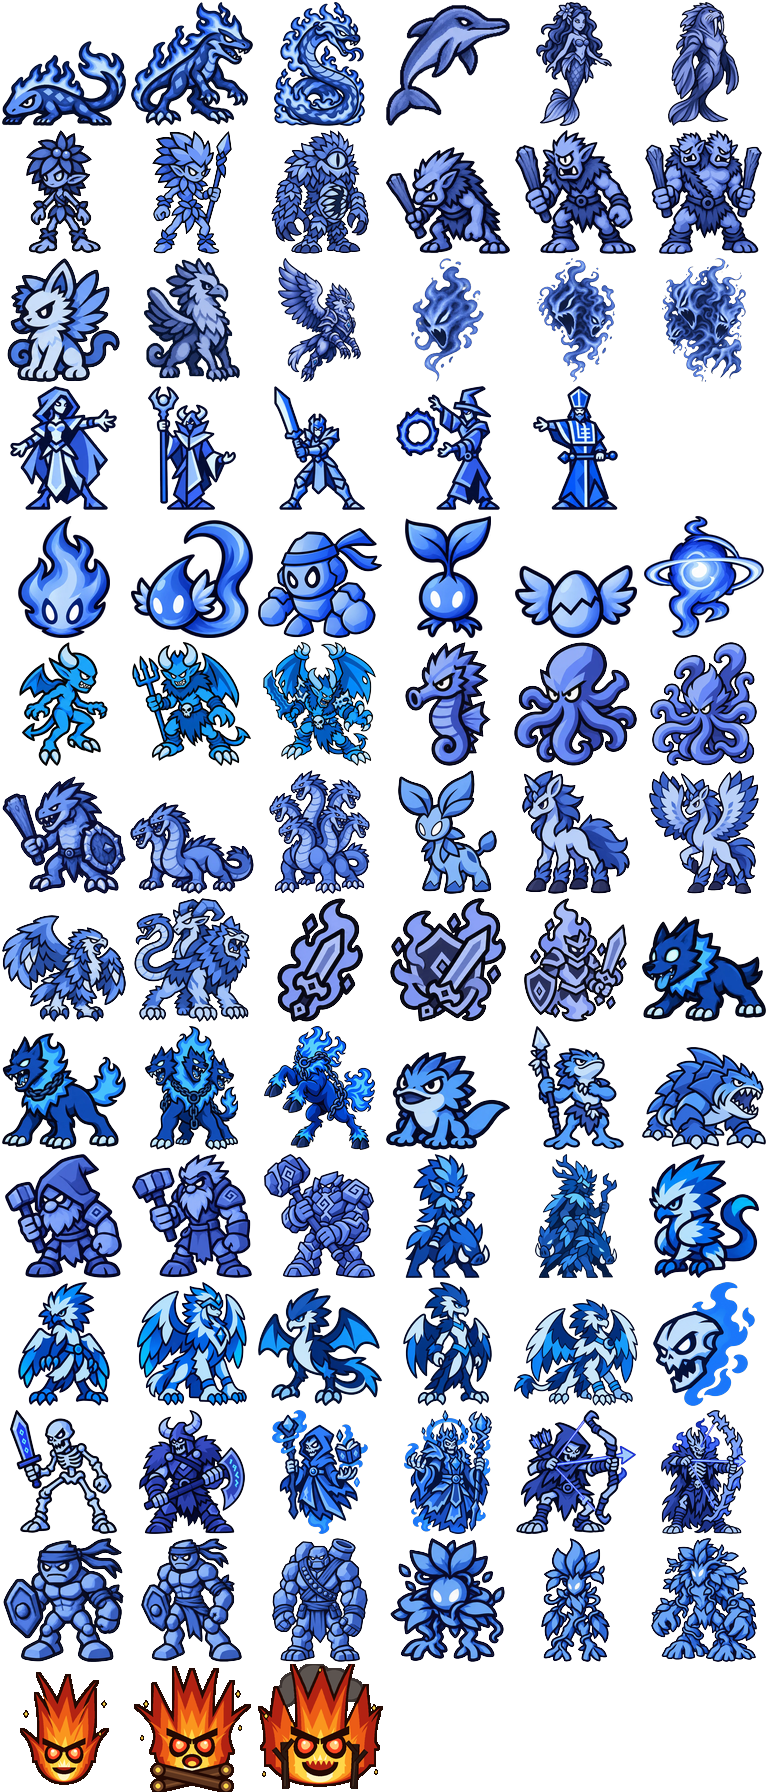
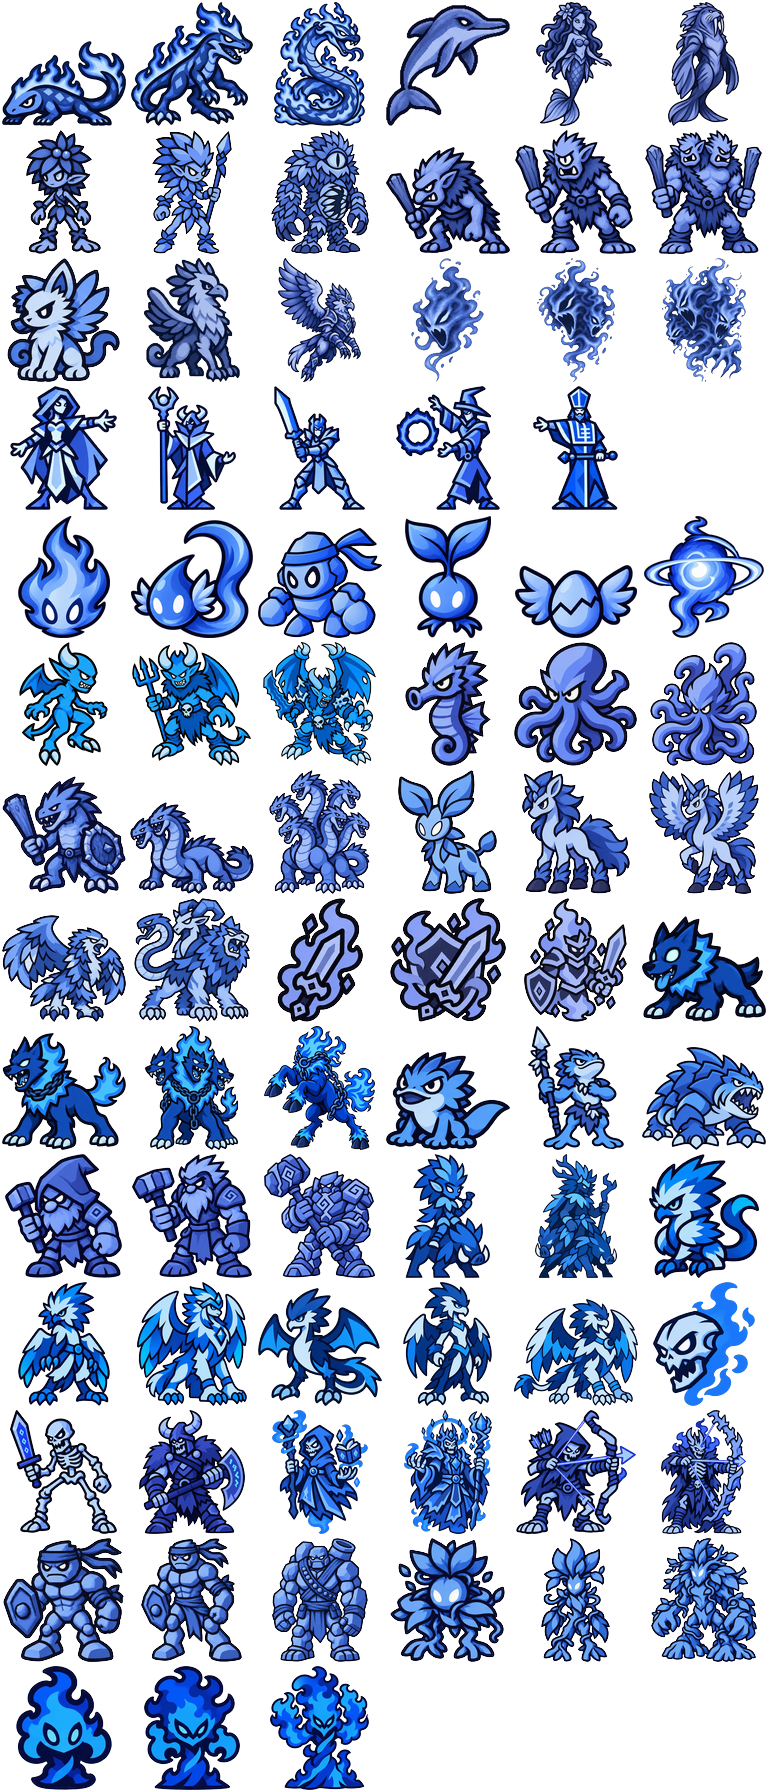
Vale único nas Fases 1 e 2, chamas com a arte nova e 4º ramo da Brasa; versão 1.87
- Fases 1 e 2 no mesmo vale (desenho do jogador, com mais floresta e uma 4ª vila), em qualquer tela;
  no celular em pé o vale abre no zoom de base e dá para arrastar
- A Fase 2 herda cada vila como a Fase 1 deixou; estrelas da Fase 1: cada vila perdida custa uma
- Labareda, Fogaréu e Queimada com a arte nova (miniatura e versão colorida de batalha)
- Brasa ganha o ramo raro Labareda (3+ turnos em floresta); os focos da Fase 2 viram espécies próprias, mais fracas

Changed region(s): [[0.1875, 0.9062, 0.5, 1.0], [0.0, 0.9062, 0.1562, 1.0]]

diff --git a/index.html b/index.html
@@ -802,7 +802,7 @@ html:not(.paisagem) #rodape .alaD{grid-area:1/3;justify-content:flex-start}
       <p><b>Evoluir na criação:</b> quando sua reserva chega a 200 MP, o menu do mestre ganha <b>Evoluir</b>. Escolha uma criatura inicial e o jogo oferece duas formas de estágio 1, conforme o que seu exército mais viveu na partida (horário dos ataques, dano feito e sofrido, terrenos, turnos parados ou correndo, feridos, abates). A escolhida custa 200 MP e fica fixa: daí em diante, invocar aquela criatura já traz a forma evoluída, pelo custo dela.</p>
       <p>Criaturas ganham XP lutando e evoluem: nascem no estágio 0 (baratas e frágeis, evoluem com pouca XP) e passam pelos estágios 1, 2 e 3. A XP que passar da meta segue para o estágio seguinte, até metade da nova meta. Algumas linhas se dividem em ramos, conforme o que a criatura viveu no estágio (a ficha mostra a tendência; em empate, é sorteio):</p>
       <ul>
-        <li><b>Brasa:</b> evolui no Dia → Salamandra; à Noite → Diabrete; na Manhã ou no Entardecer → Filhote Infernal.</li>
+        <li><b>Brasa:</b> terminou 3 ou mais turnos em floresta → Labareda (ramo raro). Senão, evolui no Dia → Salamandra; à Noite → Diabrete; na Manhã ou no Entardecer → Filhote Infernal.</li>
         <li><b>Cão Infernal</b> (estágio 2 do Filhote Infernal): turno em que ataca sem sair do lugar (ou andando só 1 casa) conta para o Cerberus; turno em que galopa 3 ou mais casas conta para a Mula sem Cabeça.</li>
         <li><b>Girino:</b> terminou 3 ou mais turnos em terra firme (fora de construções), e mais em terra do que na água → Sapinho; senão, evolui com mais da metade da vida → Boto Rosa, ferido (metade ou menos) → Cavalo Marinho.</li>
         <li><b>Argila:</b> turno parada (sem andar) vale 1 ponto e turno em pedreira ou montanha vale 3: com 4 pontos ou mais → Gnomo. Terminou 2 ou mais turnos à beira d'água (ao lado de rio, mar ou pântano) → Barruco; se valer os dois, vence o que passou mais da meta. Senão, apanhou mais do que bateu no estágio → Troll; bateu mais do que apanhou → Homem Lagarto.</li>
@@ -983,7 +983,7 @@ const zMaxToque=()=>TELA_LIVRE()?zBase()*2:ZOOM_MAX_TOQUE;
 // inicial e as casas de invocação ficam fáceis de tocar; para ver mais do mapa, é só afastar com a pinça.
 const zInicio=()=>Math.min(zBase()*2,Math.max(zBase(),58*TW/(W*LARG_CSS)));
 // celular em pé, partida nova: abre no zoom máximo, com o mestre bem à vista
-function zoomInicio(novo){if(!TELA_LIVRE())return;CAM.z=CAM.zAlvo=CAM.zPref=novo&&RETRATO()?zMaxToque():zInicio();mostraZoom();}
+function zoomInicio(novo){if(!TELA_LIVRE())return;CAM.z=CAM.zAlvo=CAM.zPref=novo&&RETRATO()&&!(J&&J.f1)?zMaxToque():zInicio();mostraZoom();} // Fases 1 e 2: o vale é deitado; no celular em pé, o zoom de base já mostra a altura toda
 function mostraZoom(){document.getElementById('zoomN').textContent=Math.round(CAM.zPref/zBase()*100)+'%';}
 // Mede o espaço do mapa e acerta a tela (TW×TH) e o canvas. Também liga/desliga o modo "retrato" (celular em pé),
 // em que o mapa preenche a área que sobra da tela em vez de ter proporção fixa. Chamado ao iniciar e a cada mudança de tamanho.
@@ -1320,11 +1320,16 @@ const ESP={
   campones:{nome:'Camponês',cat:'terPeq',el:'humano',hp:10,atk:3,def:0,mov:0,alc:1,forma:'coroa',tier:0},
   filhoteInf:{nome:'Filhote Infernal',cat:'terFogo',el:'fogo',hp:26,atk:12,def:0,mov:6,alc:1,custo:40,xp:45,evo:'caoInfernal',forma:'chama',tier:1},
   caoInfernal:{nome:'Cão Infernal',cat:'terFogo',el:'fogo',hp:44,atk:19,def:2,mov:6,alc:1,xp:90,evo:'cerberus',forma:'chama',tier:2},
-  // linha do fogo que se alastra (Fase 2): Labareda → Fogaréu → Queimada. Na mata em chamas são os focos de incêndio;
-  // Fogo não apaga fogo (o atacante de Fogo só as alimenta) e a Água causa o dobro de dano nelas.
-  labareda:{nome:'Labareda',cat:'terFogo',el:'fogo',hp:16,atk:7,def:0,mov:4,alc:1,custo:40,xp:30,evo:'fogareu',forma:'chama',tier:1},
-  fogareu:{nome:'Fogaréu',cat:'terFogo',el:'fogo',hp:30,atk:12,def:2,mov:4,alc:1,xp:60,evo:'queimada',forma:'chama',tier:2},
-  queimada:{nome:'Queimada',cat:'terFogo',el:'fogo',hp:50,atk:18,def:4,mov:4,alc:1,forma:'chama',tier:3},
+  // quarto ramo da Brasa (raro): a chama que se alastra pela mata. Labareda → Fogaréu → Queimada, um pouco acima
+  // dos outros ramos do Fogo no mesmo estágio (ramo raro). Nasce da Brasa que passou 3 ou mais turnos em floresta.
+  labareda:{nome:'Labareda',cat:'terFogo',el:'fogo',hp:28,atk:13,def:1,mov:5,alc:1,custo:40,xp:45,evo:'fogareu',forma:'chama',tier:1},
+  fogareu:{nome:'Fogaréu',cat:'terFogo',el:'fogo',hp:47,atk:19,def:3,mov:5,alc:1,xp:90,evo:'queimada',forma:'chama',tier:2},
+  queimada:{nome:'Queimada',cat:'terFogo',el:'fogo',hp:72,atk:26,def:5,mov:5,alc:1,forma:'chama',tier:3},
+  // os focos do incêndio da Fase 2: a mesma arte e o mesmo nome, mas mais fracos (são muitos ao mesmo tempo) e
+  // presos no lugar. Fogo não apaga fogo (o atacante de Fogo só os alimenta) e a Água causa o dobro de dano neles.
+  focoLabareda:{nome:'Labareda',arte:'labareda',cat:'terFogo',el:'fogo',hp:16,atk:7,def:0,mov:4,alc:1,custo:40,xp:30,evo:'focoFogareu',forma:'chama',tier:1},
+  focoFogareu:{nome:'Fogaréu',arte:'fogareu',cat:'terFogo',el:'fogo',hp:30,atk:12,def:2,mov:4,alc:1,xp:60,evo:'focoQueimada',forma:'chama',tier:2},
+  focoQueimada:{nome:'Queimada',arte:'queimada',cat:'terFogo',el:'fogo',hp:50,atk:18,def:4,mov:4,alc:1,forma:'chama',tier:3},
   cerberus:{nome:'Cerberus',cat:'terFogo',el:'fogo',hp:74,atk:24,def:6,mov:5,alc:1,forma:'chama',tier:3},
   // terceiro ramo da Água: os anfíbios que trocaram o rio pela terra. É o ramo mais raro da Água, então é um pouco mais forte
   sapinho:{nome:'Sapinho',cat:'anfibio',el:'agua',hp:28,atk:9,def:1,mov:5,alc:1,custo:50,xp:45,evo:'bullywug',forma:'gota',tier:1},
@@ -1374,8 +1379,9 @@ function spr(esp){return (ESP[esp]&&ESP[esp].arte)||esp;}
 // Quem tiver mais pontos vence; empate (inclusive 0 a 0) é sorteado.
 const RAMOS={
   // pela hora da evolução: o ciclo tem 2 turnos de Dia, 2 de Noite e 2 de crepúsculo (Manhã + Entardecer), ⅓ para cada
-  brasa:{para:['faisca','diabrete','filhoteInf'],dica:'Evoluir no Dia → Salamandra; à Noite → Diabrete; na Manhã ou no Entardecer → Filhote Infernal.',
-    pontos:u=>{const f=faseAtual().nome;return f==='Dia'?[1,0,0]:f==='Noite'?[0,1,0]:[0,0,1];}},
+  // ramo raro: a Brasa que passou 3 ou mais turnos em floresta vira Labareda (vale mais que o horário)
+  brasa:{para:['faisca','diabrete','filhoteInf','labareda'],dica:'Terminou 3 ou mais turnos em floresta → Labareda. Senão: evoluir no Dia → Salamandra; à Noite → Diabrete; na Manhã ou no Entardecer → Filhote Infernal.',
+    pontos:u=>{if(turnosEm(u,'flor')>=3)return [0,0,0,1];const f=faseAtual().nome;return f==='Dia'?[1,0,0,0]:f==='Noite'?[0,1,0,0]:[0,0,1,0];}},
   // o guardião não sai do posto, a mula dispara: cada turno conta para um lado só
   caoInfernal:{para:['cerberus','mulaSemCabeca'],dica:'Turno em que ataca sem sair do lugar (ou andando só 1 casa) conta para o Cerberus; turno em que galopa 3 ou mais casas conta para a Mula sem Cabeça.',
     pontos:u=>[hist(u).firme||0,hist(u).galope||0]},
@@ -1477,7 +1483,7 @@ function anotaJogo(u){
 }
 // pontos de cada ramo pelo histórico da partida, na ordem de RAMOS[base].para: [pontos, motivo]
 const EVO_HJ={
-  brasa:h=>[[h.atkDia,`${h.atkDia} ataques de Dia`],[h.atkNoite,`${h.atkNoite} ataques à Noite`],[h.atkCresp,`${h.atkCresp} ataques na Manhã e no Entardecer`]],
+  brasa:h=>[[h.atkDia,`${h.atkDia} ataques de Dia`],[h.atkNoite,`${h.atkNoite} ataques à Noite`],[h.atkCresp,`${h.atkCresp} ataques na Manhã e no Entardecer`],[hjTer(h,'flor'),`${hjTer(h,'flor')} turnos em floresta`]],
   girino:h=>{const tot=Object.values(h.ter).reduce((a,b)=>a+b,0),terra=tot-hjTer(h,'rio','mar','pant','cast','fort','torre');
     return [[h.saudavel*.4,`${h.saudavel} turnos terminados com mais da metade da vida`],[h.ferido,`${h.ferido} turnos terminados feridos`],[terra*.3,`${terra} turnos em terra firme`]];},
   argila:h=>{const mina=hjTer(h,'pedr','mont');
@@ -1868,7 +1874,7 @@ function novoJogo(op=prefs(),semIntro=false){ // semIntro: a partida de fundo, a
   const f1=!!op.f1; // Fase 1 (introdução): mapa fixo, sem mestre rival, contra o Bando Infernal
   const fase=f1?op.fase||1:0; // as fases da campanha usam a mesma estrutura (J.f1); a 2 é a Mata em Chamas
   const np=f1?2:MODOS[op.modo]||2;
-  const mF1=f1?(fase===2?MAPAS_F2:MAPAS_F1)[RETRATO()?'empe':'deitado']:null; // celular em pé: corredor em pé; senão, deitado
+  const mF1=f1?MAPAS_F1.deitado:null; // um só vale para as Fases 1 e 2, em qualquer tela (no celular em pé, arrasta e amplia)
   defineLinhas(f1?mF1.linhas.length:np>2?17:13);
   const m=f1?(fase===2?mapaF2(mF1):mapaF1(mF1)):gerarMapa(seed,np,op.cristal!==false); // modo único: todo mapa tem a Torre do Cristal (false só para testes)
   // os rivais recebem mestres diferentes do seu e entre si, sorteados
@@ -2322,7 +2328,7 @@ function fundoMenu(cena='inicio'){
 }
 // cada cena tem seu ponto de interesse (torre, pavilhão, monólito): é ele que fica à vista quando a tela corta os lados
 const poeArte=(el,cena)=>{try{el.style.setProperty('--fundoMenu',`url(${fundoMenu(cena)})`);el.style.setProperty('--fundoX',{inicio:'50%',batalha:'46%',carregar:'30%'}[cena]);el.dataset.cena=cena;el.classList.add('arte');}catch(e){}};
-const VERSAO='1.86'; // aumentar 0.01 a cada atualização publicada
+const VERSAO='1.87'; // aumentar 0.01 a cada atualização publicada
 // tela inicial: menu principal com três botões (Jogar, Preparar Batalha, Carregar jogo)
 // inicio = aberta ao abrir o jogo (ou no fim da partida): sem "Voltar ao jogo"
 function abreConfig(inicio=false){
@@ -2359,7 +2365,7 @@ function jogarFaseFinal(){fecharSaves();novoJogo({...prefs(),modo:'1x1',campanha
 // Vitória: derrubar o Bando. Derrota: o mestre cair ou todas as vilas serem destruídas. Cada vila salva vale uma estrela.
 // Só Fogo e Água para invocar; sem magia, Força, Evoluir, cristal nem cabo de guerra; a fase não é salva.
 const F1_CHAVE='senhoresDoVeu.fase1';
-const F1_MOV={filhoteInf:3,caoInfernal:4,labareda:0,fogareu:0,queimada:0}; // as chamas da Fase 2 não andam: elas se alastram // o Bando anda devagar, para dar tempo de reagir
+const F1_MOV={filhoteInf:3,caoInfernal:4,focoLabareda:0,focoFogareu:0,focoQueimada:0}; // as chamas da Fase 2 não andam: elas se alastram // o Bando anda devagar, para dar tempo de reagir
 const F1_CAMP=3,F1_XP=15; // camponeses por vila; XP por camponês (3 camponeses = a meta do Filhote)
 const ehF1=()=>!!(J&&J.f1);
 const selvagem=l=>!!(J&&J.f1)&&l===1;
@@ -2371,36 +2377,20 @@ function fase1Info(){try{return JSON.parse(localStorage.getItem(F1_CHAVE))||{};}
 const estrelasTxt=n=>'★'.repeat(n||0)+'☆'.repeat(Math.max(0,3-(n||0)));
 // . planície  f floresta  m montanha  p pedreira  r rio  C castelo (as fortalezas vêm em volta)  T torre  a/b Filhotes
 // V vila (vale estrela)  v vila da entrada: o Bando chega antes de qualquer ajuda, então ela não conta estrela
-// corredor sinuoso fechado por montanhas (na Fase 1 ninguém atravessa montanha). Deitado no PC e no celular deitado
-// (os Filhotes entram pela direita); em pé no celular em pé (descem do topo). Os dois têm o mesmo ritmo.
+// corredor sinuoso fechado por montanhas (na Fase 1 ninguém atravessa montanha). O mesmo vale em qualquer tela
+// (no celular em pé ele aparece inteiro pequeno; o jogo abre ampliado e dá para arrastar). Os Filhotes entram pela direita.
 const MAPAS_F1={ // corredor em S, curto (~18 passos da entrada ao castelo) para os exércitos se encontrarem logo;
-  // bordas irregulares, pedreiras entre as montanhas, moitas de floresta e uma passagem estreita no mapa em pé
+  // bordas irregulares, pedreiras entre as montanhas e bastante floresta (para o incêndio da Fase 2). Desenho do jogador.
   deitado:{entra:'direita',linhas:[
-    'mmmmmmm.m........',
-    'mmpmp...V..f.v.a.',
-    'mmmp...T..ff...b.',
-    'mmmf.f..mm.mm..pm',
-    'mmmm...m..mm.mmmm',
-    'mmm..f.V....mmmmm',
-    'mmmmm.f...VT...mm',
-    'mmmm.ff.f....C.mp',
-    'mmmmmmmfmm..m..mm']},
-  empe:{entra:'cima',linhas:[
-    'mmmmmmmpmm.....mm',
-    'mmpmpmmppmma.bmmm',
-    'pmmmmmm.mmv....mm',
-    'mpmpm..........mp',
-    'mpmp...V........m',
-    'mmm.....mm..ppfmm',
-    'mp.m.T.mm.mppmmmp',
-    'mmm...m.fmmpmpmmp',
-    'mmff.V..f..mpmppm',
-    'mmmm....f..p.mmmm',
-    'mmpmmpp...V.fp.pm',
-    'mmmmmmpmm.T.f.pmp',
-    'mmmmmpmm.....fmmm',
-    'pmmppmm..C.fmmmmm',
-    'ppmmmmmmp..mppmmm']}};
+    'mmmmmmm.m..ff.f..',
+    'mmpmpf..V..f.v.a.',
+    'mmmpf..T.fff.f.b.',
+    'pmff.f.fmm.mmf.pm',
+    'pffVf..m.fmm.mmmm',
+    'mmff.f.V.ff.mmmmm',
+    'mmmmpff.f.VT.f.mm',
+    'pmmp.ff.f.ff.C.mp',
+    'ppmmmmmfmmf.m..mm']}};
 function mapaF1(M){
   const ter=new Array(COLS*ROWS).fill('plan'),dono=new Array(COLS*ROWS).fill(null),vilas={},filhotes=[];let f0=null;
   const T={'.':'plan',f:'flor',m:'mont',p:'pedr',r:'rio',T:'torre',V:'plan',v:'plan',a:'plan',b:'plan',C:'cast'};
@@ -2492,7 +2482,7 @@ async function chegadaF1(){
   const cima=J.f1.entra==='cima';
   const ponto=f=>{const [x,y]=centro(f.c,f.r);return [x-(cima?0:W*1.5),y+(cima?R*3:0)];}; // em pé: um pouco abaixo da borda
   const fora=f=>{const [x,y]=centro(f.c,f.r);return cima?{x0:x,y0:y-R*9}:{x0:x+R*9,y0:y};}; // entram de fora do mapa
-  const z=Math.min(zBase()*2.4,Math.max(CAM.zPref*1.5,zBase()*1.6));
+  const z=RETRATO()?zBase()*1.2:Math.min(zBase()*2.4,Math.max(CAM.zPref*1.5,zBase()*1.6)); // celular em pé: o vale deitado já aparece grande
   const mira=([x,y])=>{CAM.alvo={fixo:true,px:x,py:y};CAM.centrar=true;CAM.mao=false;};
   {const [mx,my]=ponto(fs[0]);CAM.z=CAM.zAlvo=z;CAM.enq=true;CAM.x=mx;CAM.y=my;limitaCam();mira([mx,my]);}
   for(const f of fs)f.anim={...fora(f),t0:performance.now(),dur:1e9}; // esperando fora do mapa
@@ -2657,46 +2647,23 @@ const F2_CHAVE='senhoresDoVeu.fase2';
 const F2_QUEIMA=3,F2_MAX_CHAMAS=10,F2_CAO_TURNO=2,F2_ALIMENTA_XP=8,F2_ALIMENTA_HP=3,F2_MATA_ESTRELA=0.6;
 const ehF2=()=>!!(J&&J.f1&&J.f1.n===2);
 function fase2Info(){try{return JSON.parse(localStorage.getItem(F2_CHAVE))||{};}catch(e){return {};}}
-// . planície  f floresta  F floresta já em chamas (foco)  m montanha  p pedreira  r rio  C castelo  T torre  V vila
-// c por onde o Cão Infernal entra. Castelo de um lado, rio cortando o vale (os Girinos nadam por ele), mata fechada.
-const MAPAS_F2={
-  deitado:{entra:'direita',linhas:[
-    'mmfffmmrffffmmffm',
-    'mffVff.r.fFfVff.m',
-    'mf..Tffrfffff.fFm',
-    'm.ff...rr.fff...m',
-    'mff..f..r..T.ff.c',
-    'm.f..ff.rff.ff.fm',
-    'm..C..f.rfFffVffm',
-    'mf...ff.r.fffffmm',
-    'mmffmmffrffmmffmm']},
-  empe:{entra:'cima',linhas:[
-    'mmmffmmm.c.ffmmmm',
-    'mmffFff..fffffmmm',
-    'mfffffV.fff.fffmm',
-    'mff..ff.rr.ff.ffm',
-    'm.ff...rr..fFff.m',
-    'mff.T..r.ffffV.fm',
-    'mfff..rr.ff..ff.m',
-    'm.ff..r..fF.fff.m',
-    'mff.Vfr.ffff.T.fm',
-    'mfff..r.ff...ff.m',
-    'm.ff.r..ff.ff.ffm',
-    'mff..r.ff..fff.mm',
-    'mmf.rr.C...ff.fmm',
-    'mmff.r.....fffmmm',
-    'mmmmmrmmffmmmmmmm']}};
+// A Fase 2 acontece no MESMO vale da Fase 1 (MAPAS_F1): o Cão entra por onde os Filhotes entraram, e as vilas
+// continuam como a Fase 1 as deixou (vila destruída fica em ruínas; cada uma com os camponeses que sobraram nela).
+// Aqui só ficam os focos iniciais do incêndio, em florestas do vale (coluna, linha).
+const F2_FOCOS={deitado:[[11,2],[5,3],[9,5]]};
+const oriF1=()=>'deitado'; // um só vale (antes havia uma versão em pé)
 function mapaF2(M){
-  const ter=new Array(COLS*ROWS).fill('plan'),dono=new Array(COLS*ROWS).fill(null),vilas={},focos=[];let f0=null,cao=null;
-  const T={'.':'plan',f:'flor',F:'flor',m:'mont',p:'pedr',r:'rio',T:'torre',V:'plan',c:'plan',C:'cast'};
-  M.linhas.forEach((lin,r)=>[...lin].forEach((ch,c)=>{const k=K(c,r);ter[k]=T[ch];
-    if(ch==='C')f0=[c,r];if(ch==='V')vilas[k]={n:F1_CAMP,max:F1_CAMP,estrela:true};if(ch==='F')focos.push([c,r]);if(ch==='c')cao=[c,r];}));
-  dono[K(...f0)]=0;for(const [a,b] of vizinhos(...f0)){ter[K(a,b)]='fort';dono[K(a,b)]=0;}
-  // camponeses: os que sobreviveram à Fase 1, repartidos entre as vilas (mais nas perto do castelo); ao menos 1 em cada
-  const ks=Object.keys(vilas).map(Number).sort((a,b)=>d6c(...DK(a),...f0)-d6c(...DK(b),...f0)||a-b);
-  const veio=campanhaInfo().f1Camp,tot=Math.max(ks.length,Math.min(ks.length*F1_CAMP,veio??ks.length*F1_CAMP));
-  ks.forEach((k,i)=>{vilas[k].n=Math.min(F1_CAMP,Math.floor(tot/ks.length)+(i<tot%ks.length?1:0));});
-  return {ter,dono,f0,f:[f0],tema:'Mata em Chamas',cristal:null,vilas,focos,cao,entra:M.entra,camponeses:tot};
+  const m=mapaF1(M),ori=oriF1(M),cp=campanhaInfo(),salvo=cp.f1Vilas&&cp.f1Vilas.ori===ori?cp.f1Vilas.n:null;
+  const ks=Object.keys(m.vilas).map(Number).sort((a,b)=>d6c(...DK(a),...m.f0)-d6c(...DK(b),...m.f0)||a-b);
+  if(salvo){for(const k of ks)m.vilas[k].n=Math.max(0,Math.min(F1_CAMP,salvo[k]??F1_CAMP));}
+  else{ // sem o resultado da Fase 1 nesta posição da tela: o total que sobrou, repartido (a vila da entrada ficou em ruínas)
+    const est=ks.filter(k=>m.vilas[k].estrela),veio=cp.f1Camp,tot=Math.max(est.length,Math.min(est.length*F1_CAMP,veio??est.length*F1_CAMP));
+    for(const k of ks)if(!m.vilas[k].estrela)m.vilas[k].n=0;
+    est.forEach((k,i)=>{m.vilas[k].n=Math.min(F1_CAMP,Math.floor(tot/est.length)+(i<tot%est.length?1:0));});
+  }
+  for(const k of ks)m.vilas[k].inicio=m.vilas[k].n; // as que começam de pé contam para a estrela das vilas
+  const focos=F2_FOCOS[ori].filter(([c,r])=>m.ter[K(c,r)]==='flor');
+  return {...m,tema:'Mata em Chamas',focos,cao:m.filhotes[0],camponeses:ks.reduce((s,k)=>s+m.vilas[k].n,0)};
 }
 function iniciaF2(m){
   J.f1={n:2,fila:['intro1'],vistos:{torre:true,torreMagica:true},rostos:{},entra:m.entra,entrada:[m.cao],caoPos:m.cao,castelo:m.f0,
@@ -2706,7 +2673,7 @@ function iniciaF2(m){
   for(const p of m.focos)criaChama(K(...p));
 }
 const chamaEm=k=>ehF2()&&J.un.some(x=>x.chama&&K(x.c,x.r)===k);
-function criaChama(k,esp='labareda'){
+function criaChama(k,esp='focoLabareda'){
   const [c,r]=DK(k),u=criaUnidade(esp,1,c,r);
   u.selvagem=true;u.chama=true;u.idade=0;u.movido=u.agiu=true;return u;
 }
@@ -2818,7 +2785,7 @@ async function turnoFogo(l){
   // 4. Labareda que queimou a floresta até o fim se apaga e deixa cinza (a floresta vira planície)
   for(const u of J.un.filter(x=>x.chama)){
     u.idade=(u.idade||0)+1;const k=K(u.c,u.r);
-    if(u.esp==='labareda'&&!J.vilas[k]&&u.idade>=F2_QUEIMA){
+    if(u.esp==='focoLabareda'&&!J.vilas[k]&&u.idade>=F2_QUEIMA){
       J.ter[k]='plan';J.f1.cinzas++;J.f1.cinzaK=k;apagaChama(u);
       const [x,y]=centro(...DK(k));fx.push({txt:'Cinzas',x,y:y-6,t0:performance.now(),cor:'#b8b0a8',dur:1400});
       log('A floresta queimou até o fim e virou cinza.');avisoF1('cinza');
@@ -2839,7 +2806,7 @@ async function espalhaFogo(){
     focos.push(g);}
   const cast=J.f1.castelo,novas=[];let total=chamas.length;
   for(const g of focos){
-    let n=1+g.filter(u=>u.esp==='fogareu').length+2*g.filter(u=>u.esp==='queimada').length;
+    let n=1+g.filter(u=>u.esp==='focoFogareu').length+2*g.filter(u=>u.esp==='focoQueimada').length;
     const cands=new Set();
     for(const u of g)for(const [c,r] of vizinhos(u.c,u.r)){const k=K(c,r);if(inflamavel(k)&&!unidadeEm(c,r))cands.add(k);}
     const ord=[...cands].sort((a,b)=>d6c(...DK(a),...cast)-d6c(...DK(b),...cast)||a-b);
@@ -2853,7 +2820,7 @@ async function espalhaFogo(){
 }
 // fim da Fase 2: estrelas (vencer, todas as vilas de pé, mata salva); vencer leva à fase final
 function mostraFimF2(v,motivo){
-  const vs=Object.values(J.vilas),salvas=vs.filter(x=>x.n>0).length,camp=vs.reduce((s,x)=>s+x.n,0);
+  const vs=Object.values(J.vilas).filter(x=>x.inicio>0),salvas=vs.filter(x=>x.n>0).length,camp=vs.reduce((s,x)=>s+x.n,0);
   const mata=J.ter.filter(t=>t==='flor').length,pct=J.f1.mata0?Math.round(100*mata/J.f1.mata0):100;
   const b=document.getElementById('fimBt'),b2=document.getElementById('fimBt2');
   document.getElementById('fimTxt').textContent=v===0?'Fase 2 concluída!':'Você perdeu';
@@ -2943,15 +2910,16 @@ function mostraFimFase(v,motivo){if(ehF2())mostraFimF2(v,motivo);else mostraFimF
 // fim da Fase 1: estrelas pelas vilas salvas; vencer leva à Fase 2
 function mostraFimF1(v,motivo){
   const vs=Object.values(J.vilas).filter(x=>x.estrela!==false),salvas=vs.filter(x=>x.n>0).length,camp=vs.reduce((s,x)=>s+x.n,0),tot=vs.reduce((s,x)=>s+x.max,0); // a vila da entrada não conta
+  const est=Math.max(0,3-(vs.length-salvas)); // 3 estrelas com todas as vilas salvas; cada vila perdida custa uma
   const b=document.getElementById('fimBt'),b2=document.getElementById('fimBt2');
   document.getElementById('fimTxt').textContent=v===0?'Fase 1 concluída!':'Você perdeu';
   b2.style.display='';
   if(v===0){
     const info=fase1Info();
-    try{localStorage.setItem(F1_CHAVE,JSON.stringify({venceu:true,estrelas:Math.max(info.estrelas||0,salvas)}));}catch(e){}
-    salvaCampanha({camponeses:camp,f1Camp:camp,fase:1}); // os sobreviventes seguem para a próxima fase (vale o resultado da última vitória)
+    try{localStorage.setItem(F1_CHAVE,JSON.stringify({venceu:true,estrelas:Math.max(info.estrelas||0,est)}));}catch(e){}
+    salvaCampanha({camponeses:camp,f1Camp:camp,fase:1,f1Vilas:{ori:J.f1.entra==='cima'?'empe':'deitado',n:Object.fromEntries(Object.entries(J.vilas).map(([k,x])=>[k,x.n]))}}); // os sobreviventes seguem para a próxima fase (vale o resultado da última vitória)
     document.getElementById('fimSub').textContent=`O Bando Infernal caiu no turno ${J.turno}.`;
-    document.getElementById('fimPorque').innerHTML=`<div class="estrelasF1">${[0,1,2].map(i=>`<span class="${i<salvas?'on':''}">★</span>`).join('')}</div>
+    document.getElementById('fimPorque').innerHTML=`<div class="estrelasF1">${[0,1,2].map(i=>`<span class="${i<est?'on':''}">★</span>`).join('')}</div>
       <p class="porque" style="text-align:center">${salvas} de ${vs.length} vilas salvas · ${camp} de ${tot} camponeses vivos</p>`;
     b.textContent='Continuar';b.onclick=()=>jogarFase2();
     b2.textContent='Tentar novamente';b2.onclick=()=>jogarFase1();
@@ -5809,9 +5777,9 @@ const ORDEM_SPR=['faisca','brasador','pirolorde','gotim','corrente','abissal','b
   'harpiaSol','esfingeSol','cocatrizLua','harpiaLua','esfingeLua','caveira', // 11ª linha: as linhagens Solar e Lunar do Ar e a Caveira
   'esqGuerreiro','draugr','esqMago','lich','esqArqueiro','flecheiro', // 12ª linha: os esqueletos da Essência
   'barruco','terracoto','golemArgila','mandrago','sentinela','trent', // 13ª linha: o barro da Argila e as raízes da Semente
-  'labareda','fogareu','queimada']; // 14ª linha: o fogo que se alastra (Fase 2)
+  'labareda','fogareu','queimada']; // 14ª linha: o fogo que se alastra (4º ramo da Brasa; também os focos da Fase 2)
 const ATL_LIN=14;
-const ATLAS=/*ATLAS*/"img/atlas.png?v=2a792fc8"/*FIM_ATLAS*/;
+const ATLAS=/*ATLAS*/"img/atlas.png?v=1cfcdeb6"/*FIM_ATLAS*/;
 const CEL=128;
 // estágio de evolução tem que ser legível só pelo tamanho: 0 mínimo, 1º pequeno, 2º médio, 3º grande (passa da borda do hexágono)
 const TAM_SPR=[21,28,40,56];
@@ -5969,7 +5937,7 @@ atlasCorImg.onload=()=>{
   FILA_ATLAS.push(()=>{atlasCor=contornar(atlasCorImg,4,'#07080c');if(J)atualiza();});
   if(FILA_ATLAS.length===1)rodaFilaAtlas();
 };
-atlasCorImg.src=/*ATLAS_COR*/"img/atlas-cor.png?v=e7cc4b6a";
+atlasCorImg.src=/*ATLAS_COR*/"img/atlas-cor.png?v=950884ba";
 const temCor=esp=>{const i=ORDEM_SPR.indexOf(spr(esp));return i>=0&&i<N_COR;};
 function iconeSpr(esp,t,lado=0){
   const i=ORDEM_SPR.indexOf(spr(esp));
